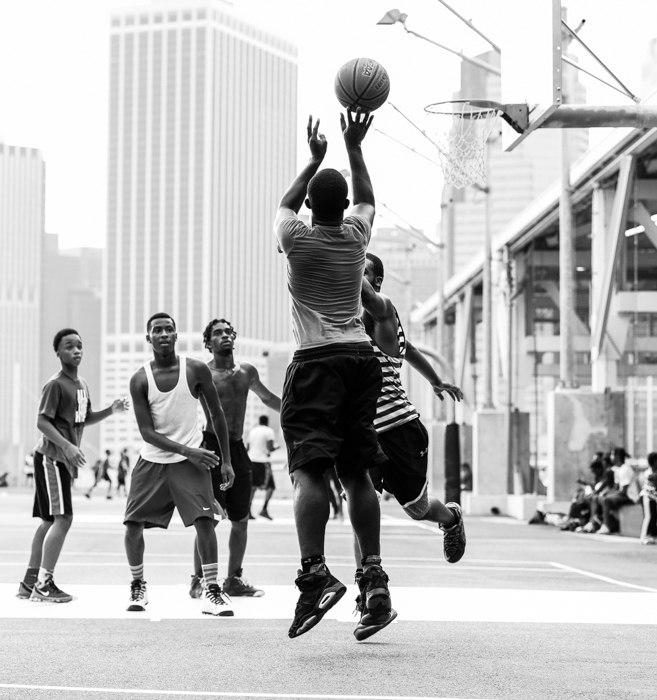
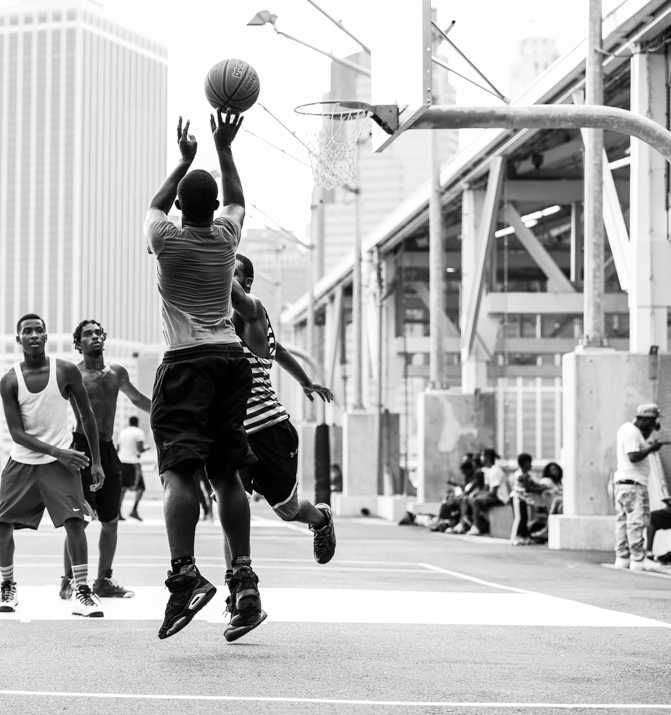
fixed carousel img flickering between transition by changing height minHeight to 100vh and minWidth to 100%

diff --git a/pages/index.tsx b/pages/index.tsx
@@ -93,7 +93,7 @@ const useStyles = makeStyles((theme) => ({
     borderRadius: '3px',
     transition: 'border 0.3s',
     '&:hover': {
-      border: '5px solid #ffffffbb'
+      border: '5px solid #ffffffbb',
       // border: '1px solid white',
     },
     [theme.breakpoints.up('lg')]: {
@@ -116,11 +116,11 @@ const useStyles = makeStyles((theme) => ({
 
 function Item(props: Pick<Props, 'item'>) {
   const classes = useStyles()
-
+  const matches = { sm: useMediaQuery(theme.breakpoints.up('sm')) }
   return (
     <Paper classes={{ root: classes.noShadow }}>
       <div className={classes.imgWrapper}>
-        <img style={{ width: '100%' }} src={props.item.src} />
+        <img src={props.item.src}  style={matches.sm ? { minHeight: '100vh', minWidth: '100%'} : { height: '70vh', minWidth: '100%'}} />
 
         <h1 className={classes.imgHeader}>{props.item.header}</h1>
       </div>
@@ -176,35 +176,44 @@ export default function Index({ pageAnimations }: Props) {
   let src: string = ''
 
   return (
-    <PageTransition pageStyle={{backgroundColor: '#111'}} pageAnimations={pageAnimations}>
-    <>
-      <div className={classes.relativeContainer}>
-        <div className={classes.overlay} />
-        <Button className={classes.shopNowBtn} component={Link} href="/catalog">
-          <GridContainer direction="column">
-            <>Shop Now</>
-            <div className={classes.underline} />
-          </GridContainer>
-        </Button>
-        <Carousel
-          indicatorIconButtonProps={{
-            style: { opacity: 0, color: 'transparent' },
-          }}
-          indicatorContainerProps={{ style: { height: 0, margin: '-3px' } }}
-          navButtonsAlwaysVisible={true}
-          navButtonsProps={{ style: { zIndex: 2, opacity: 0.15 } }}
-        >
-          {items.map((item, i) => {
-            item.src = matches.sm
-              ? item.images.desktop.src
-              : item.images.mobile
-                  .src /* To Avoid functionality on an unmounted component */
-            return <Item key={i} item={item} />
-          })}
-        </Carousel>
-      </div>
-      <ProductCategories />
-    </>
+    <PageTransition
+      pageStyle={{ backgroundColor: '#111' }}
+      pageAnimations={pageAnimations}
+    >
+      <>
+        <div className={classes.relativeContainer}>
+          <div className={classes.overlay} />
+          <Button
+            className={classes.shopNowBtn}
+            component={Link}
+            href="/catalog"
+          >
+            <GridContainer direction="column">
+              <>Shop Now</>
+              <div className={classes.underline} />
+            </GridContainer>
+          </Button>
+          <Carousel
+            indicatorIconButtonProps={{
+              style: { opacity: 0, color: 'transparent' },
+            }}
+            indicatorContainerProps={{ style: { height: 0, margin: '-3px' } }}
+            navButtonsAlwaysVisible={true}
+            navButtonsProps={{ style: { zIndex: 2, opacity: 0.15 } }}
+          >
+            {items.map((item, i) => {
+              item.src = matches.sm
+                ? item.images.desktop.src
+                : item.images.mobile
+                    .src /* To Avoid functionality on an unmounted component */
+              return <Item key={i} item={item} />
+            })}
+          </Carousel>
+        </div>
+        <div style={{ position: 'relative' }}>
+          <ProductCategories />
+        </div>
+      </>
     </PageTransition>
   )
 }
